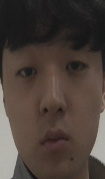
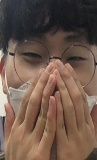
use raspberry

diff --git a/raspberry/use_model.py b/raspberry/use_model.py
@@ -1,5 +1,5 @@
-from keras.models import load_model
 from keras.preprocessing import image
+from keras.models import load_model
 import numpy as np
 
 def standard_scaler(x_data):
@@ -8,13 +8,13 @@ def standard_scaler(x_data):
     scale_data = (x_data - mean) / std
     return scale_data
 
-white_model = load_model('white_mask.h5')
-img = image.load_img('./sv_img/face.jpg', target_size=(128, 128))
-img_tensor = image.img_to_array(img)
-scale_img = standard_scaler(img_tensor)
-scale_img = scale_img.reshape(-1, 128, 128, 3)
-# x_test = np.load('x_test.npy')
-# y_test = np.load('y_test.npy')
+def predict_mask(model):
+    img = image.load_img('./sv_img/face.jpg', target_size=(128, 128))
+    img_tensor = image.img_to_array(img)
+    scale_img = standard_scaler(img_tensor)
+    scale_img = scale_img.reshape(-1, 128, 128, 3)
+    pred = model.predict_classes(scale_img)
+    return pred
 
-pred = white_model.predict_classes(scale_img)
-print(pred)
+white_model = load_model('white_mask.h5')
+print(predict_mask(white_model))

diff --git a/raspberry/rpi.py b/raspberry/rpi.py
@@ -1,6 +1,9 @@
 import cv2
 import find_face
+import use_model
+from keras.models import load_model
 
+white_model = load_model('white_mask.h5')
 capture = cv2.VideoCapture(0)
 
 while True:
@@ -12,8 +15,18 @@ while True:
 
         if cv2.waitKey(1) > 0:
             break
+    pred = use_model.predict_mask(white_model)
+    print(pred)
+    if pred == 1:
+        print("pass")
+    elif pred == 0:
+        print('please wear a mask')
+
+    else:
+        print('aa')
 
     print("find face please enter next person")
+
     sig = input()
     if sig == 'exit':
         break
